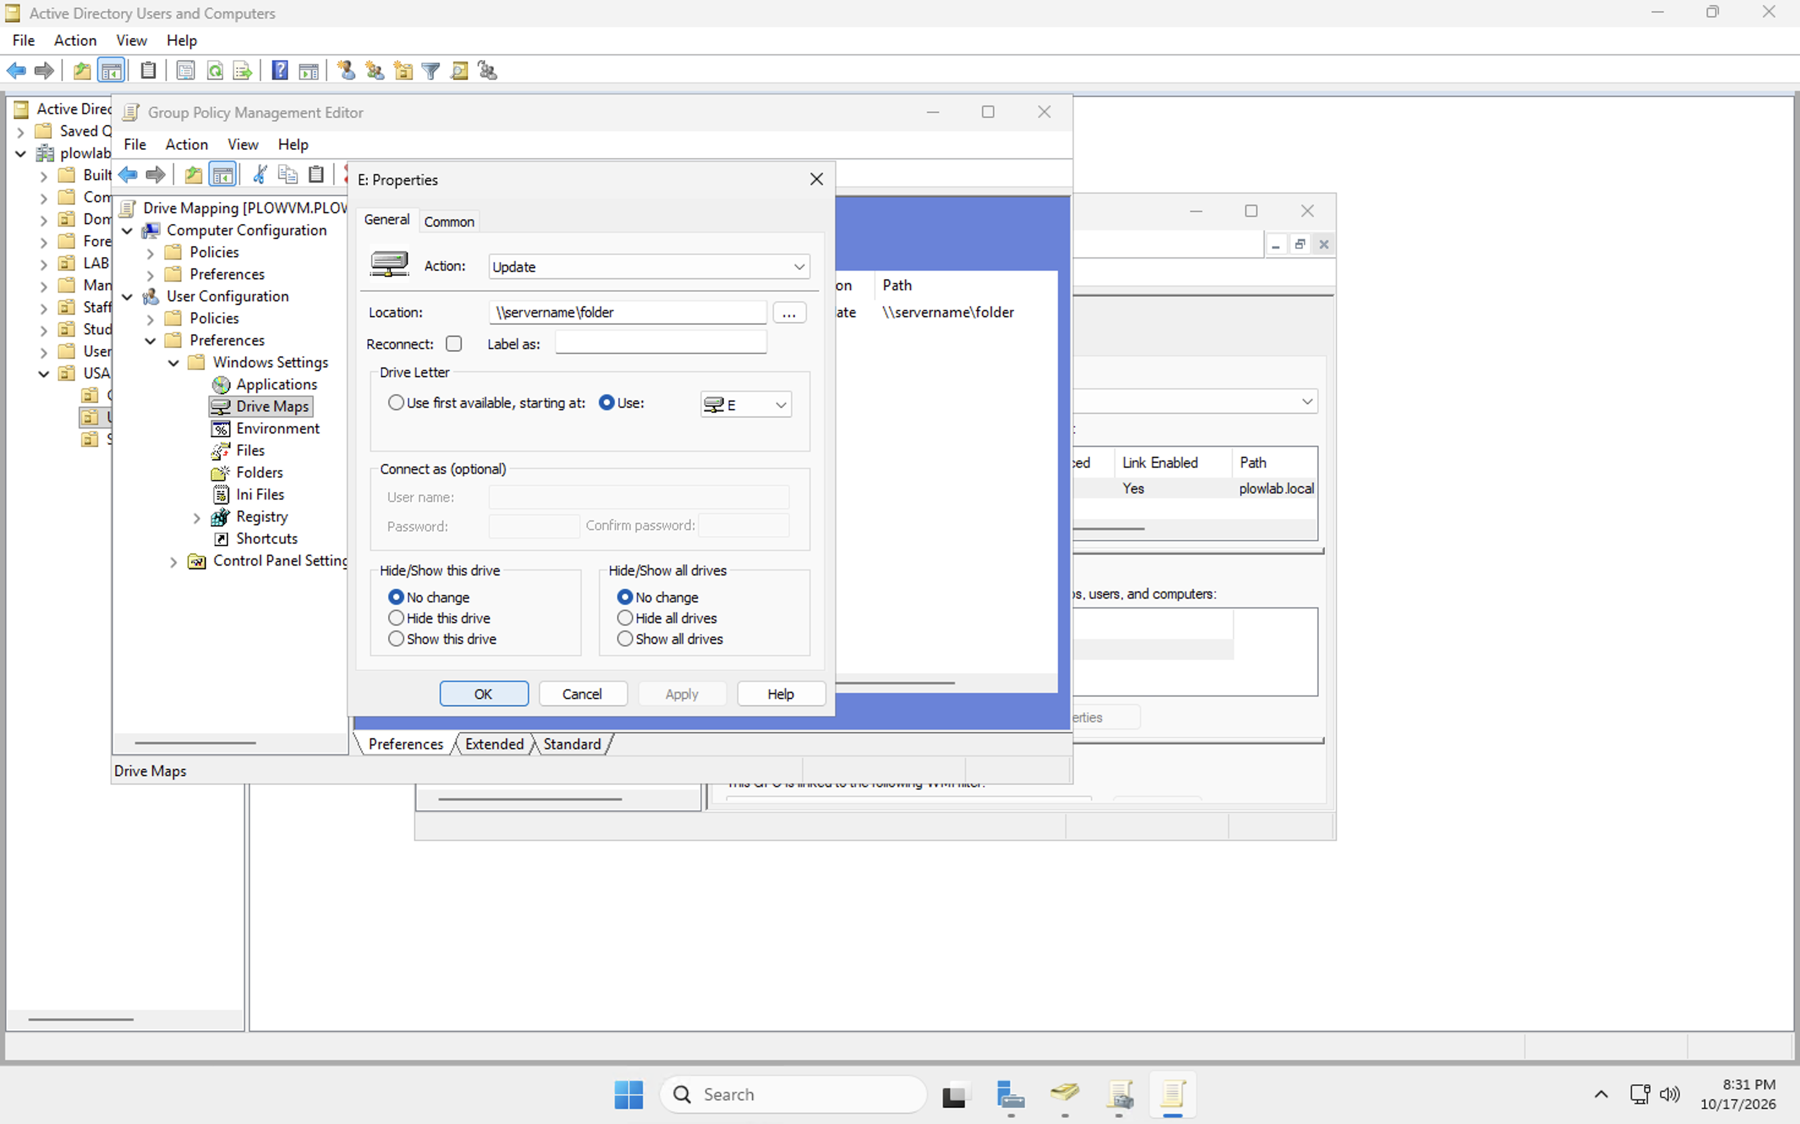
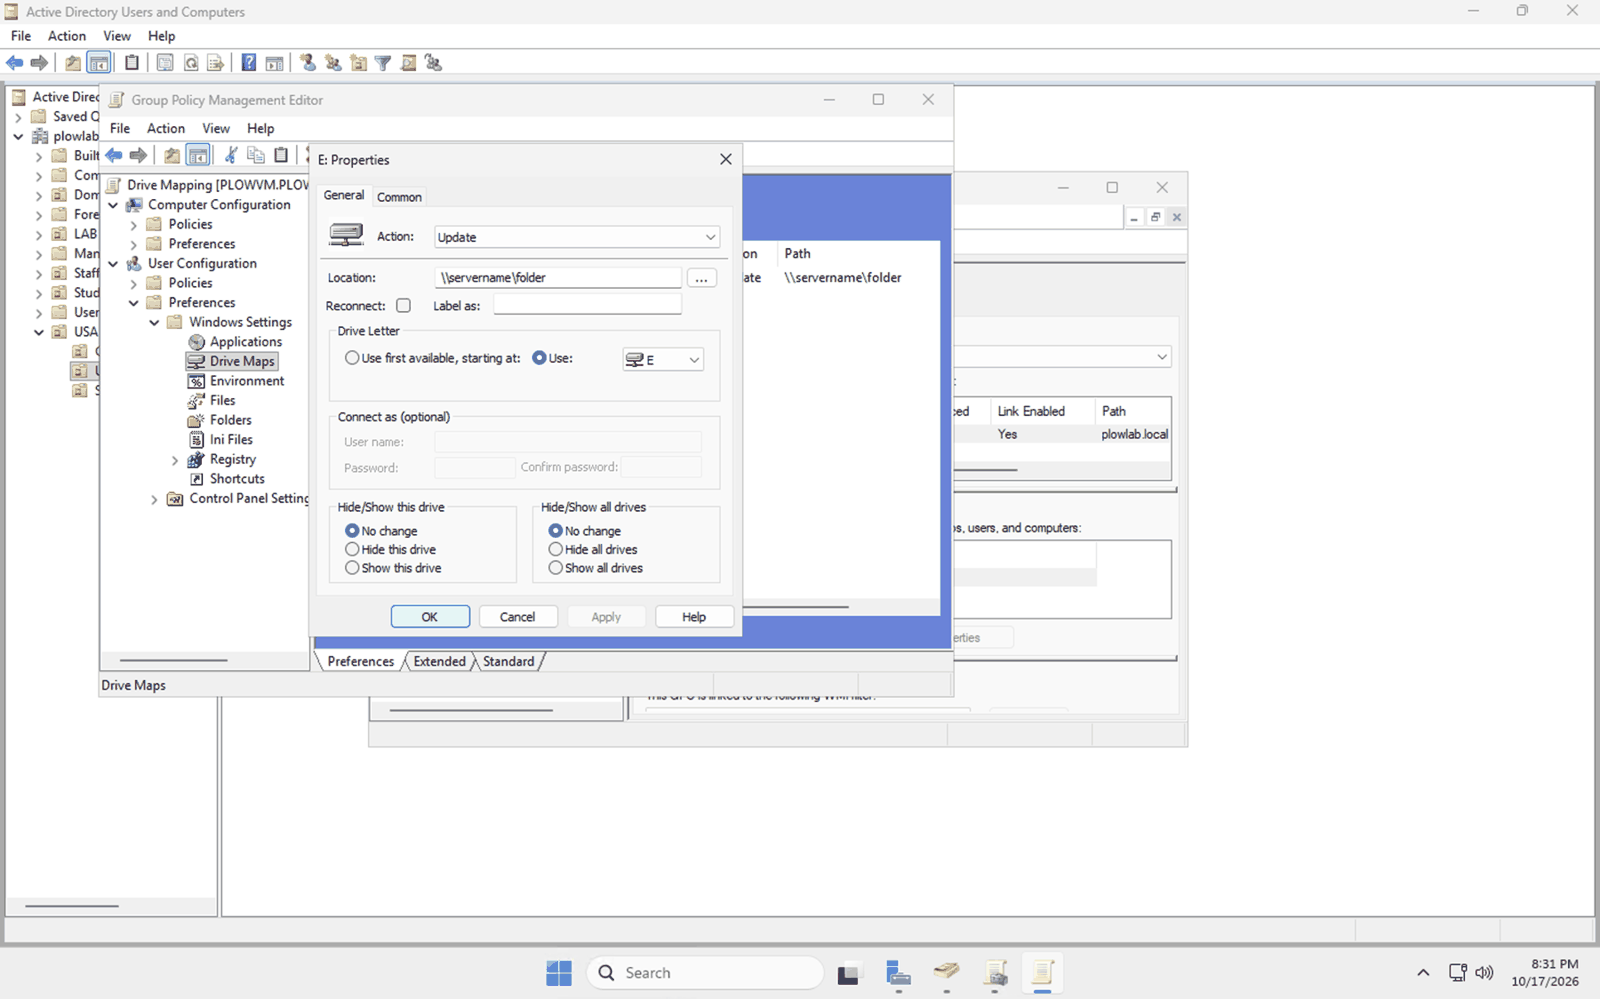
Add runbook 05: join client to domain and test GPOs
Claude-Session: https://claude.ai/code/session_014s2RFeqbDtdp3BoE14t4rQ

diff --git a/docs/05-join-client-and-test-gpos.md b/docs/05-join-client-and-test-gpos.md
@@ -1,0 +1,92 @@
+# 05. Join a client to the domain and test the GPOs
+
+**Goal:** Prove the Group Policy objects from [runbook 04](04-group-policy-objects.md) actually reach a user on a real domain-joined Windows machine.
+
+## What I built
+
+- A second Azure VM, `PLOWCLIENT`, running Windows 11 Pro/Enterprise, in the **same virtual network and subnet** as the domain controller `PLOWVM`.
+- Joined it to `plowlab.local`.
+- Signed in as the domain user `PLOWLAB\mplowright` and verified policy with `gpupdate`, `gpresult` and a real restriction.
+
+## Steps
+
+1. Create the client VM in Azure. Use the existing virtual network and subnet (not a new one). Local admin account: `clientadmin`.
+2. Point the client at the domain controller for DNS (see Problems below). Check with `ipconfig /all`: the DNS server must be the DC's private IP, not `168.63.129.16`.
+3. Confirm name resolution: `nslookup plowlab.local` returns the DC.
+4. Join the domain: `sysdm.cpl` > Change > Domain `plowlab.local`, sign in with a domain account, restart.
+5. Allow the domain user to connect over RDP: `net localgroup "Remote Desktop Users" "PLOWLAB\mplowright" /add`.
+6. Reconnect and sign in as `PLOWLAB\mplowright` (not `clientadmin`, which is a local account).
+
+![Signing in as the domain user](images/05-client-domain-sign-in.png)
+
+## Testing
+
+### Force a policy refresh
+
+```
+gpupdate /force
+```
+
+Both Computer Policy and User Policy updated successfully.
+
+![gpupdate /force](images/05-gpupdate-force.png)
+
+### See which GPOs applied
+
+```
+gpresult /r
+```
+
+The report is for `PLOWLAB\mplowright` on `PLOWCLIENT`. The user is in `OU=Users,OU=USA,DC=plowlab,DC=local`, policy came from `PlowVM.plowlab.local`, and **Applied Group Policy Objects** lists **Drive Mapping** and **Restrict Control Panel**.
+
+![gpresult /r user settings](images/05-gpresult-r-user-settings.png)
+![gpresult /r applied GPOs and groups](images/05-gpresult-r-applied-gpos.png)
+
+### HTML report
+
+```
+gpresult /h $env:USERPROFILE\Desktop\gpreport.html
+```
+
+The component status shows Group Policy Infrastructure, Drive Maps and Registry all **Success**, and both GPOs are listed under Applied GPOs.
+
+![gpresult HTML summary](images/05-gpresult-html-summary.png)
+![gpresult HTML applied GPOs](images/05-gpresult-html-applied-gpos.png)
+
+### Real-world proof: Control Panel is blocked
+
+Opening Control Panel as `mplowright` gives the message "This operation has been cancelled due to restrictions in effect on this computer. Please contact your system administrator."
+
+![Control Panel restriction message](images/05-control-panel-restricted.png)
+
+## Results
+
+| GPO | Result on the client |
+|---|---|
+| Restrict Control Panel | Applied and enforced. Control Panel is blocked for the user |
+| Drive Mapping | Applied (Drive Maps component: Success). No drive appears because the path is still the placeholder `\\servername\folder` |
+| Desktop wallpaper | Not in the applied list for this user. Needs a look (see Next steps) |
+| Password policy, account lockout, USB block | Computer or domain-level settings. Not shown in a standard-user `gpresult`; need an elevated check |
+
+## Problems I hit
+
+| Problem | Cause | Fix |
+|---|---|---|
+| Client could not find `plowlab.local` | The client was using Azure's default DNS (`168.63.129.16`), which knows nothing about my domain | Set the virtual network's DNS servers to **Custom** with the DC's private IP, restarted the client, confirmed with `ipconfig /all` |
+| Remote Desktop kept signing in as `clientadmin` | The Windows App had saved credentials | Edited the saved PC to **Ask when required** and typed `PLOWLAB\mplowright` |
+| "You must change your password before signing in" | The new user had "User must change password at next logon" ticked, which blocks RDP sign-in | In Active Directory Users and Computers, reset the password and unticked that box |
+| `gpresult /h C:\gpreport.html` gave "Access is denied" | A standard user cannot write to the root of `C:\` | Saved the report to the Desktop instead |
+
+## What I learned
+
+- A domain join needs working DNS first. If the client cannot resolve the domain, nothing else works.
+- Domain accounts need permission to connect over RDP, separate from being able to join the domain.
+- `gpresult /r` shows which GPOs applied. `gpresult /h` makes a report that is easier to read and screenshot. Computer-side results need an elevated prompt.
+- A GPO can be applied correctly even when you see no visible effect, such as a drive map pointing at a placeholder path.
+
+## Next steps
+
+- Create a real shared folder on `PLOWVM` and point the drive map at it.
+- Check why the wallpaper GPO is not in the applied list (link location, enabled setting and image path).
+- Run `gpresult /scope computer /r` from an admin prompt to confirm the computer-side policies.
+- Move the password and lockout GPOs above the Default Domain Policy in link order.

diff --git a/docs/troubleshooting-log.md b/docs/troubleshooting-log.md
@@ -9,5 +9,9 @@ Real problems from the lab, with the cause and the fix. Newest at the bottom.
 | 2026-10-17 | Forgot the sign-in password for the lab VM | Azure does not store the VM password, and the portal's Reset password blade did not apply the change | Used **Run command > RunPowerShellScript** on the VM to set a new password with `net user`, then updated the saved credential in the Windows App |
 | 2026-10-17 | Setting maximum password age triggered a "Suggested Value Changes" box | Windows offers matching minimum age (30 days) and, for lockout, a 10-minute duration and reset counter | Accepted the suggested values by clicking OK |
 | 2026-10-17 | Drive map showed the path `\\servername\folder` | I left the default placeholder location in the new drive map | Left as a placeholder for now; next step is a real shared folder |
+| 2026-10-17 | Client VM could not resolve `plowlab.local` | Client used Azure default DNS (`168.63.129.16`) | Set virtual network DNS to Custom with the DC's private IP and restarted the client |
+| 2026-10-17 | RDP kept signing in as the local admin | Windows App saved credentials | Set the saved PC to "Ask when required" and signed in as the domain user |
+| 2026-10-17 | "You must change your password before signing in" | "User must change password at next logon" was ticked | Reset the password in AD Users and Computers with that box unticked |
+| 2026-10-17 | `gpresult /h C:\gpreport.html` returned "Access is denied" | Standard users cannot write to the root of `C:\` | Saved the report to the Desktop |
 
 More entries will be added as I build the next steps.

diff --git a/README.md b/README.md
@@ -15,6 +15,7 @@ It pairs with my [Admin Practice Lab](https://github.com/Markplowwright/admin-pr
 | 02 | Promoted the server to a domain controller | [02 Promote to a domain controller](docs/02-promote-domain-controller.md) |
 | 03 | Created a domain user in an OU | [03 Create a domain user](docs/03-create-domain-user.md) |
 | 04 | Built six GPOs: password policy, drive mapping, wallpaper, Control Panel restriction, USB block, account lockout | [04 Group Policy objects](docs/04-group-policy-objects.md) |
+| 05 | Joined a Windows 11 client to the domain and tested the GPOs with `gpupdate` and `gpresult` | [05 Join a client and test GPOs](docs/05-join-client-and-test-gpos.md) |
 
 ## Environment
 
@@ -31,9 +32,10 @@ Planned, not done yet. I will move items up to the table above as I finish them.
 - [x] Users created in an OU. OUs and groups (`IT` security group, `DL-ITAdmins` distribution group) exist; write-up for those is pending
 - [ ] DNS: read the records the domain creates and test name resolution
 - [x] Group Policy: GPOs created and linked (see runbook 04)
-- [ ] Group Policy testing: join a client, then verify with `gpupdate` and `gpresult`
+- [x] Group Policy testing: client joined, verified with `gpupdate` and `gpresult` (see runbook 05)
+- [ ] Fix drive map (real share) and wallpaper GPO, then re-test
 - [ ] File server and shared folders with permissions
-- [ ] Join a Windows client to the domain
+- [x] Join a Windows client to the domain
 - [ ] Windows Server Update Services (WSUS)
 - [ ] Backups and a test restore
 - [ ] Imaging with Windows Deployment Services and MDT
